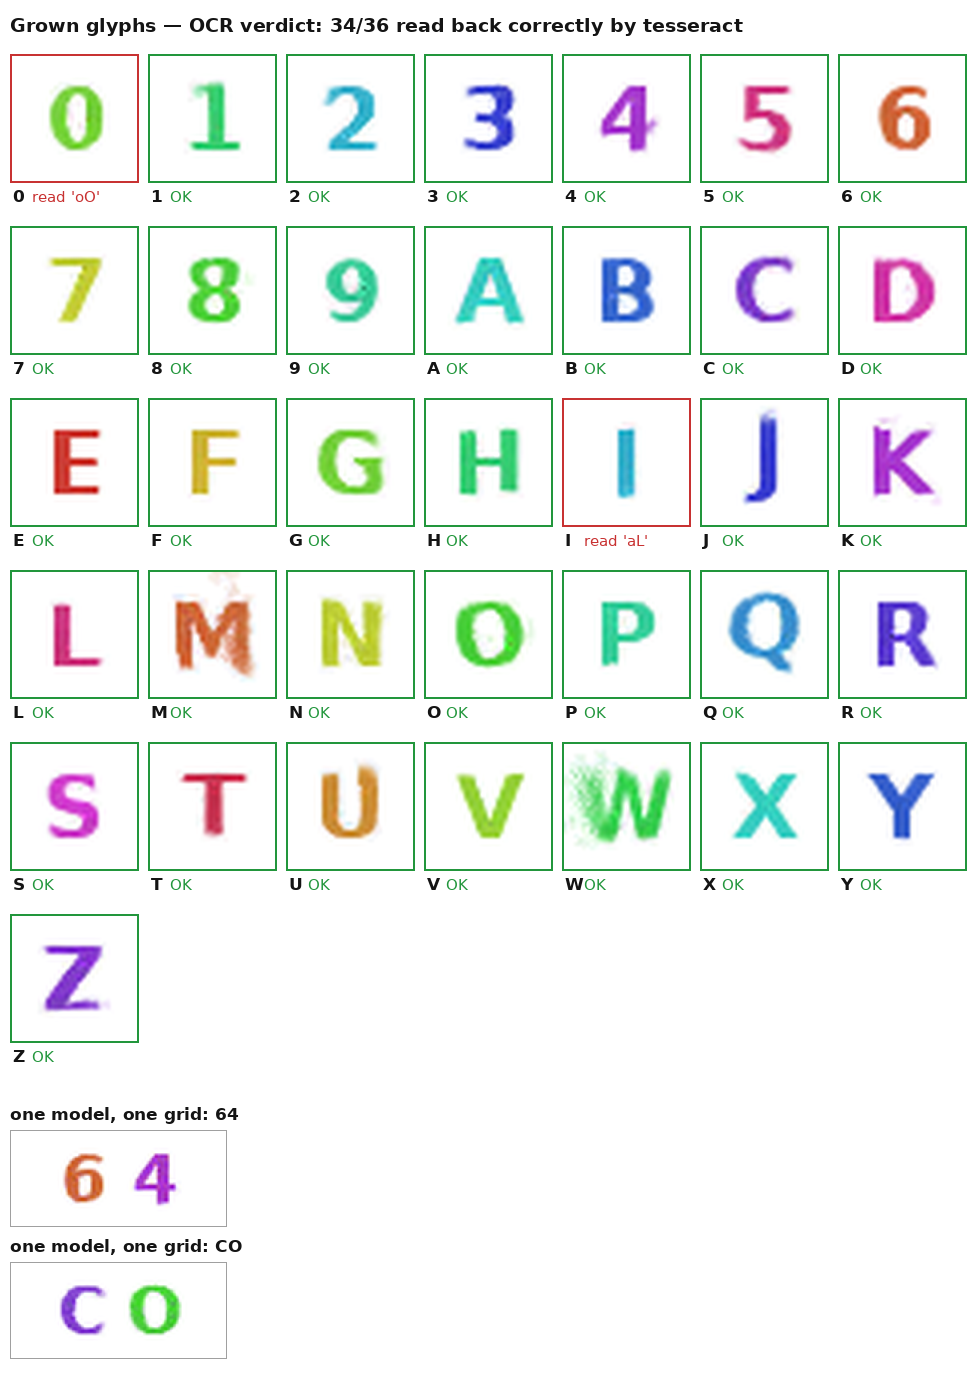
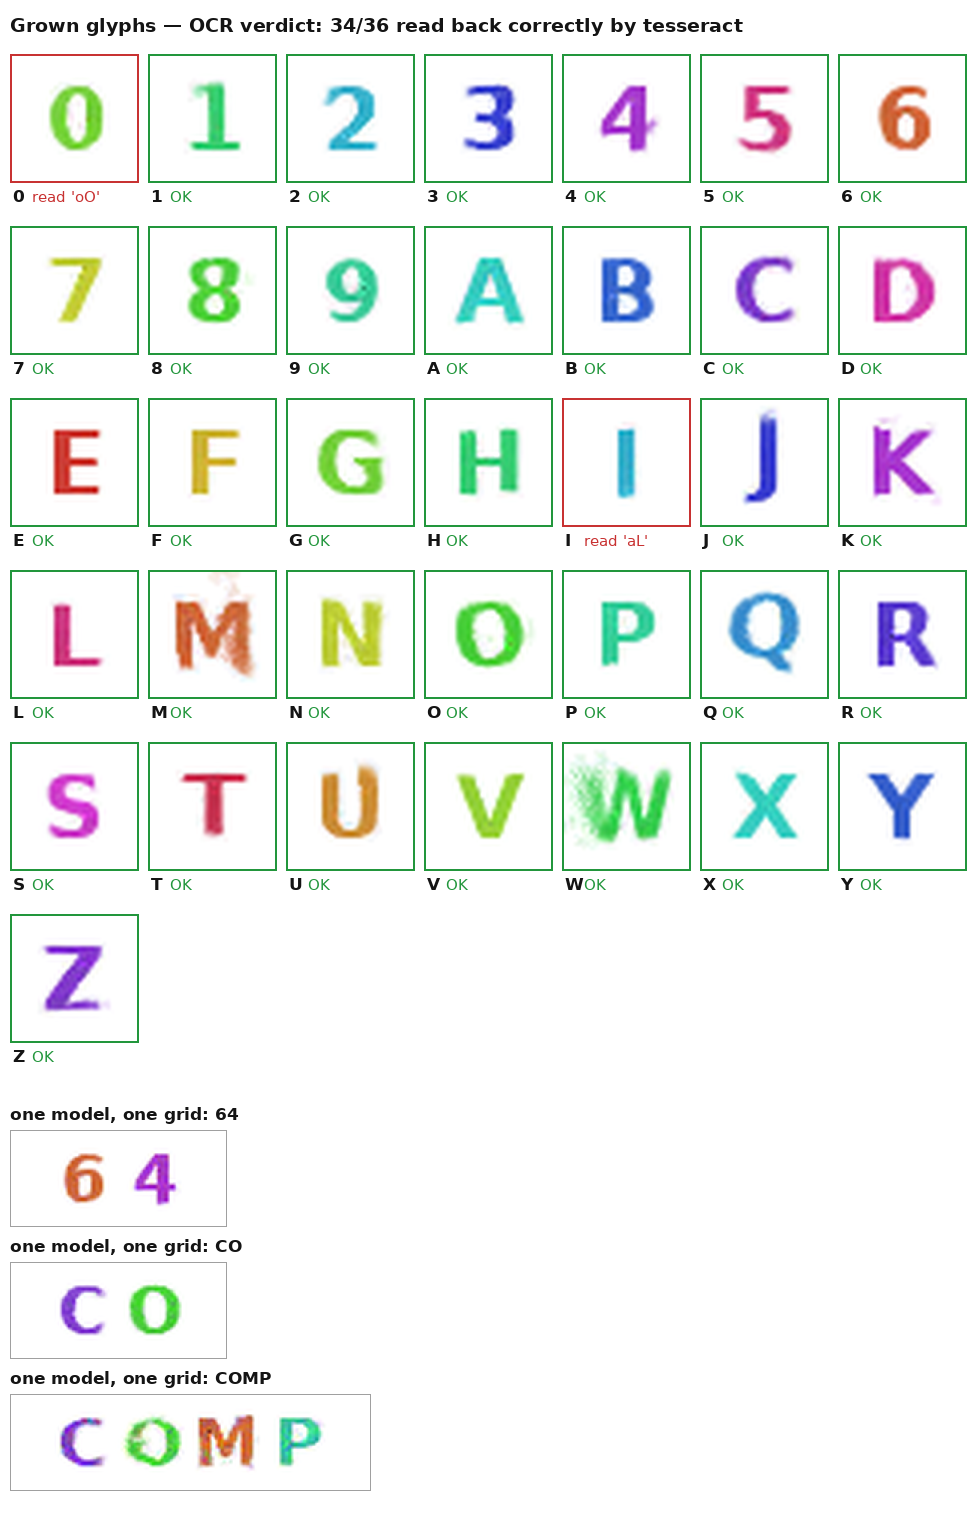
training progress: COMP6441 @ step 3900
Claude-Session: https://claude.ai/code/session_01USN6buEBYoEF7qh9QWEjHQ

diff --git a/docs/index.html b/docs/index.html
@@ -30,9 +30,37 @@
   </div>
 </header>
 
-<!-- ============================ HERO ============================ -->
+<!-- ============ HEADLINE: ONE MODEL, ONE GRID, WHOLE STRING ============ -->
+<div class="figure-column" id="word-figure-wrap" hidden>
+  <figure id="word-figure">
+    <p class="figure-title">One model, one grid, the whole string</p>
+    <div class="word-toolbar">
+      <span class="word-toolbar-label">word</span>
+      <div id="word-pills" role="group" aria-label="Choose a word model"></div>
+    </div>
+    <div class="word-canvas-wrap">
+      <canvas id="word-canvas" aria-label="A word growing on a single shared grid"></canvas>
+    </div>
+    <p class="figure-note" id="word-note" hidden></p>
+    <figcaption>
+      <b>One network. One grid. Every character.</b> This is not a row of
+      canvases stitched together &mdash; it is a single learned rule running
+      over one shared grid, grown from one seed cell per character. The seeds
+      are identical except for a 6-bit code written into their hidden
+      channels, and the same network reads that code and unfolds the right
+      glyph from it: the weights that grow a <em>C</em> also grow a
+      <em>6</em>. Where glyphs meet there are no canvas walls, so neighboring
+      letters have to negotiate their own boundaries. <b>Click or drag</b> to
+      carve a hole and watch it heal; <b>double-click</b> to restart from
+      seeds. Playback uses the controls below.
+    </figcaption>
+  </figure>
+</div>
+
+<!-- ================= PER-LETTER DEMO (arbitrary text) ================= -->
 <div class="figure-column" id="hero">
   <figure id="hero-figure">
+    <p class="figure-title">One model per character, any text you like</p>
     <div class="hero-input-row">
       <input id="hero-text" type="text" value="COMP6441" maxlength="16"
              autocomplete="off" autocapitalize="characters" spellcheck="false"
@@ -56,37 +84,13 @@
       </span>
     </div>
     <figcaption>
+      Here each character is its <em>own</em> automaton on its own canvas &mdash;
+      36 separate models, one per character, so you can grow arbitrary text.
       <b>Type something</b> (A&ndash;Z, 0&ndash;9 and space), then interfere:
       <b>click or drag</b> on a letter to carve a hole in it and watch the
       cells regrow what was lost. <b>Double-click</b> a letter to restart it
       from a single seed. Every canvas is a live 32&times;32 cellular
       automaton &mdash; nothing here is a recording.
-    </figcaption>
-  </figure>
-</div>
-
-<!-- ===================== WORD: ONE GRID, ONE WORD ===================== -->
-<div class="figure-column" id="word-figure-wrap" hidden>
-  <figure id="word-figure">
-    <p class="figure-title">One grid, one word</p>
-    <div class="word-toolbar">
-      <span class="word-toolbar-label">word</span>
-      <div id="word-pills" role="group" aria-label="Choose a word model"></div>
-    </div>
-    <div class="word-canvas-wrap">
-      <canvas id="word-canvas" aria-label="A word growing on a single shared grid"></canvas>
-    </div>
-    <p class="figure-note" id="word-note" hidden></p>
-    <figcaption>
-      <b>One network, one grid.</b> Unlike the demo above, where every letter
-      is its own automaton on its own canvas, everything here is grown by a
-      <em>single</em> learned rule on one shared grid. Each seed cell starts
-      with a different 6-bit character code written into its hidden channels,
-      and the same network decodes that code and unfolds the right glyph
-      from it. Where glyphs meet, the letters must negotiate their
-      boundaries with one another &mdash; there are no canvas walls to keep
-      them apart. <b>Click or drag</b> to damage, <b>double-click</b> to
-      reset; playback follows the controls in the figure above.
     </figcaption>
   </figure>
 </div>
@@ -97,10 +101,11 @@
 <section id="word-section" hidden>
   <h2>Seeds that carry their name</h2>
   <p>
-    In the headline demo, an <em>A</em> grows into an <em>A</em> because its
-    entire network was trained for nothing else. The word models drop that
-    crutch: one network serves every letter in the word, so identity has to
-    live somewhere other than the weights &mdash; and it lives in the seed.
+    In the per-character demo, an <em>A</em> grows into an <em>A</em> because
+    its entire network was trained for nothing else. The model at the top of
+    this page drops that crutch: one network serves every character in the
+    string, so identity has to live somewhere other than the weights &mdash;
+    and it lives in the seed.
     Six hidden channels of each starting cell hold a 6-bit code &mdash; enough
     to name any of the 36 characters, letters and digits alike &mdash; and that
     is the <em>only</em> difference between a seed destined to become a